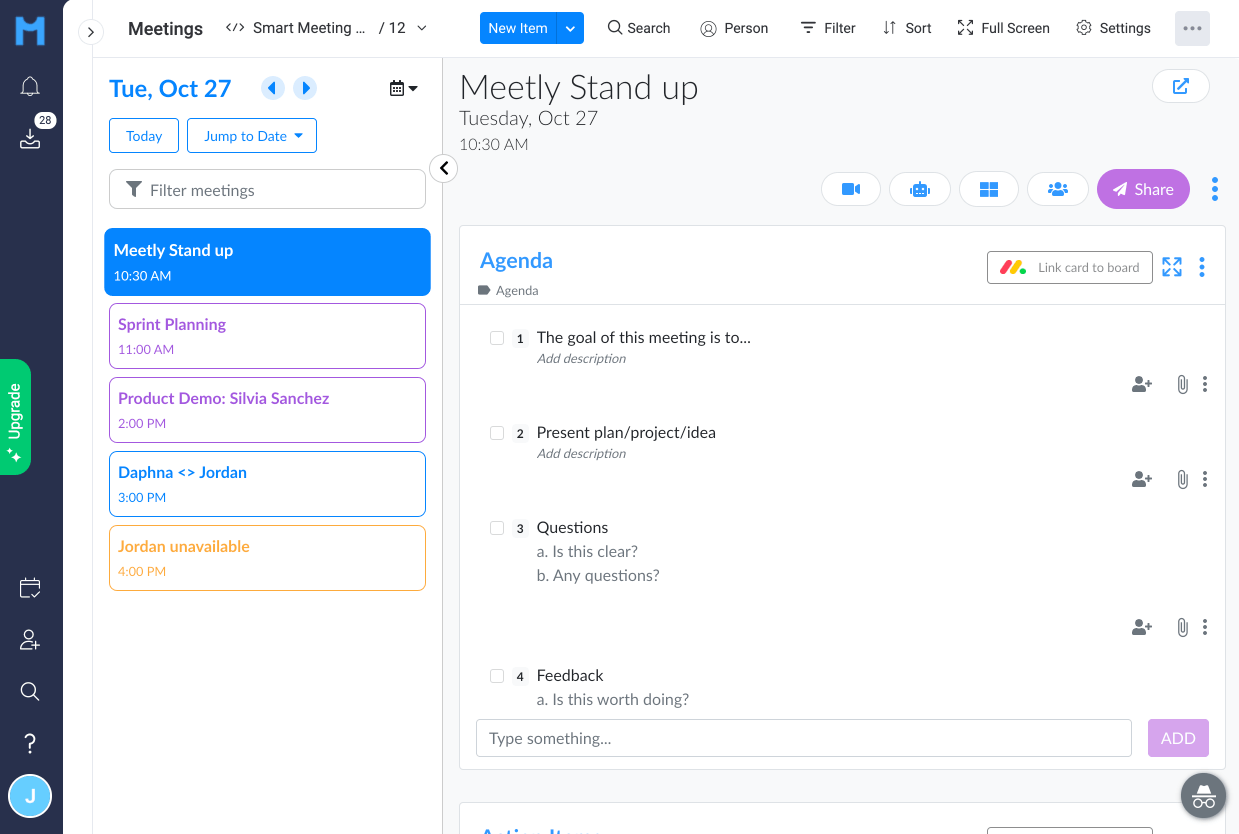
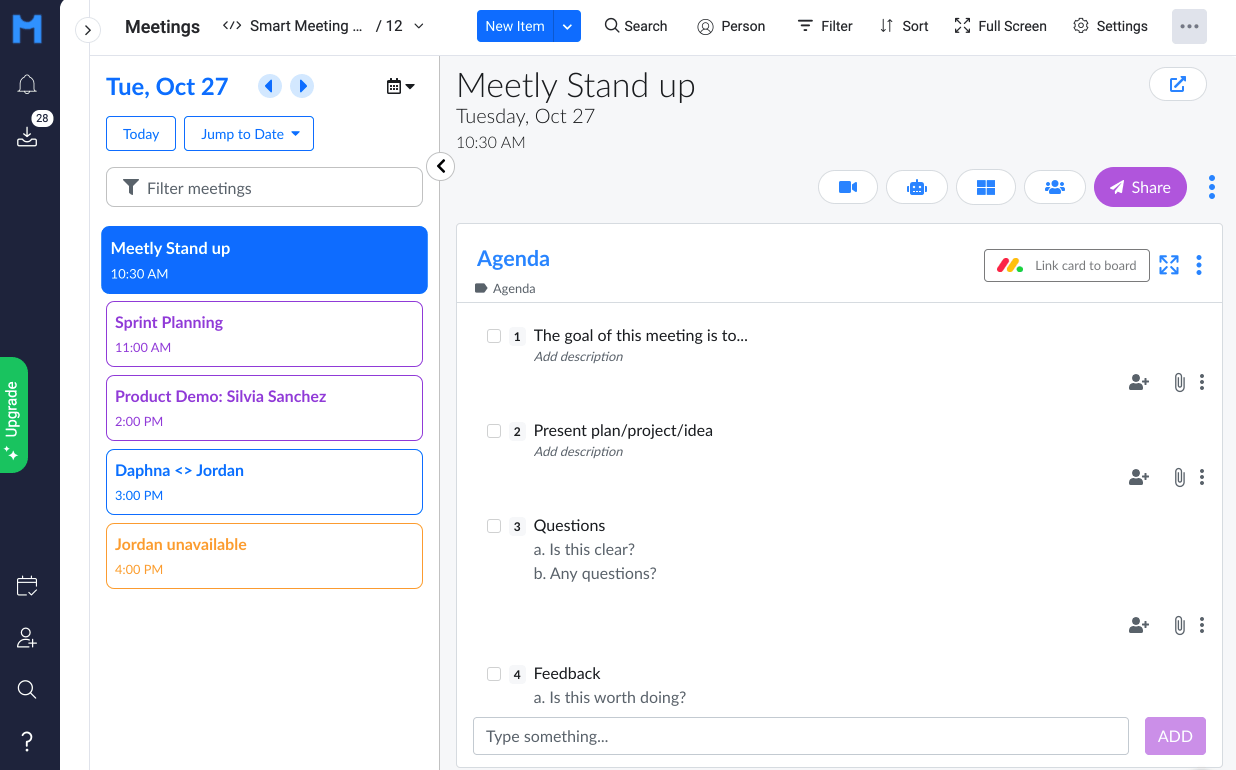
Aligns the images in the Meetly page

diff --git a/src/components/case_studies/Meetly.jsx b/src/components/case_studies/Meetly.jsx
@@ -39,35 +39,33 @@ const TimelineItem = props => (
 
 const MeetlyIntro = () => (
   <div className="mt-5">
-    <div className="d-flex">
-      <div className="container">
-        <div className="col-12 col-md-8 pl-0">
-          <h1 className="display-4">
-            Developing an idea into a venture-backed startup
-          </h1>
-          <h3 className="font-weight-light">
-            How design research lead to the creation of{" "}
-            <a
-              href="https://www.runmeetly.com"
-              className="text-primary font-weight-bolder"
-              target="_blank"
-            >
-              Meetly
-            </a>
-            , a meeting notes automation tool
-          </h3>
-          {/*<h5 className="font-weight-light mt-4">*/}
-          {/*Meetly is a <span className="font-weight-bold">calendar automation tool</span> that grew out of user research I conducted at POPin, my former employer.*/}
-          {/*</h5>*/}
-          {/*<h5 className="font-weight-light mt-4">*/}
-          {/*Three colleagues and I left POPin to turn the idea into a stand along product.*/}
-          {/*</h5>*/}
-        </div>
-      </div>
-    </div>
     <div className="container">
-      <div className="d-flex flex-column mt-5">
-        <h3 className="text-muted font-weight-light">Web app</h3>
+      <div className="col-12 col-md-8 pl-0">
+        <h1 className="display-4">
+          Developing an idea into a venture-backed startup
+        </h1>
+        <h3 className="font-weight-light">
+          How design research lead to the creation of{" "}
+          <a
+            href="https://www.runmeetly.com"
+            className="text-primary font-weight-bolder"
+            target="_blank"
+          >
+            Meetly
+          </a>
+          , a meeting notes automation tool
+        </h3>
+        {/*<h5 className="font-weight-light mt-4">*/}
+        {/*Meetly is a <span className="font-weight-bold">calendar automation tool</span> that grew out of user research I conducted at POPin, my former employer.*/}
+        {/*</h5>*/}
+        {/*<h5 className="font-weight-light mt-4">*/}
+        {/*Three colleagues and I left POPin to turn the idea into a stand along product.*/}
+        {/*</h5>*/}
+      </div>
+      <div className="mt-md-5" style={{ height: "3rem" }} />
+
+      <div className="d-flex flex-column">
+        <h3 className="font-weight-light mb-3">The Web App</h3>
         <div className="mb-5">
           <img
             alt="Meetly"
@@ -77,37 +75,31 @@ const MeetlyIntro = () => (
           {/*<PlayOnScroll id="meetly-overview" video={ add_item_and_share } />*/}
         </div>
       </div>
-    </div>
-    <div className="row d-flex justify-content-center mt-5">
-      <div className="d-flex flex-column">
-        <h3 className="text-muted font-weight-light">Monday.com</h3>
-        <h3 className="text-muted font-weight-light">Integration</h3>
-      </div>
-      <div className="col-md-8 mb-5 no-gutters">
-        <div className="p-3">
-          <img
-            alt="Monday integration"
-            className="img-fluid boxshadow rounded"
-            src={monday_schedule_view}
-          />
-        </div>
-      </div>
-    </div>
-    <div className="row d-flex justify-content-center mt-5">
-      <div className="d-flex flex-column">
-        <h3 className="text-muted font-weight-light">Chrome</h3>
-        <h3 className="text-muted font-weight-light">Extension</h3>
-      </div>
-      <div className="col-md-8 mb-5 no-gutters">
-        <div className="p-3">
+      <div className="d-flex flex-column mt-5">
+        <h3 className="font-weight-light">The Chrome Extension</h3>
+        <div className="mb-5">
           <img
             alt="Monday integration"
             className="img-fluid boxshadow rounded"
             src={chrome_extension_meetly}
           />
+          {/*<PlayOnScroll id="meetly-overview" video={ add_item_and_share } />*/}
+        </div>
+      </div>
+      <div className="d-flex flex-column mt-5">
+        <h3 className="font-weight-light">The monday.com Integration</h3>
+        <div className="mb-5">
+          <img
+            alt="Monday integration"
+            className="img-fluid boxshadow rounded"
+            src={monday_schedule_view}
+          />
+
+          {/*<PlayOnScroll id="meetly-overview" video={ add_item_and_share } />*/}
         </div>
       </div>
     </div>
+
   </div>
 );
 
@@ -178,7 +170,7 @@ const MeetlyResearch = () => (
   <div className="bg-light">
     <div className="d-flex justify-content-center mt-5">
       <div className="col-12 col-md-6">
-        <h2 className="text-uppercase">Design Research</h2>
+        <h2 className="text-uppercase">Research Objectives</h2>
         <div className="font-weight-light">
           <p>
             While interviewing and observing users of POPin, an employee
